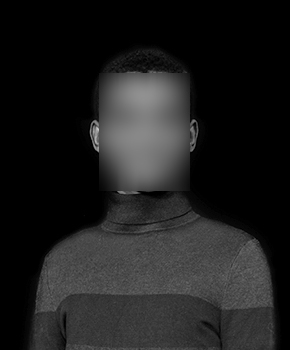
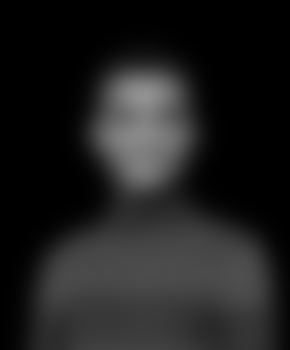
changed blur faces/names

diff --git a/index.html b/index.html
@@ -315,7 +315,7 @@
                                             src="./Topbox Marketing_files/blur_brian.jpg" alt="">
                                     </div>
                                     <div class="meet-team-button">
-                                        <h4 class="ceo-name">brian lau</h4>
+                                        <h4 class="ceo-name">name</h4>
                                         <p class="job-title">president &amp; Founder</p>
                                     </div>
                                 </div>
@@ -328,7 +328,7 @@
                                             src="./Topbox Marketing_files/blur_christine.jpg"
                                             alt=""></div>
                                     <div class="meet-team-button">
-                                        <h4 class="ceo-name">christine cabral</h4>
+                                        <h4 class="ceo-name">name</h4>
                                         <p class="job-title">project leader</p>
                                     </div>
                                 </div>
@@ -341,7 +341,7 @@
                                             src="./Topbox Marketing_files/blur_winson.jpg" alt="">
                                     </div>
                                     <div class="meet-team-button">
-                                        <h4 class="ceo-name">winson quon</h4>
+                                        <h4 class="ceo-name">name</h4>
                                         <p class="job-title">technology leader</p>
                                     </div>
                                 </div>
@@ -354,7 +354,7 @@
                                             src="./Topbox Marketing_files/blur_chad.jpg" alt="">
                                     </div>
                                     <div class="meet-team-button">
-                                        <h4 class="ceo-name">Takizawa tucker</h4>
+                                        <h4 class="ceo-name">name</h4>
                                         <p class="job-title">operations leader</p>
                                     </div>
                                 </div>
